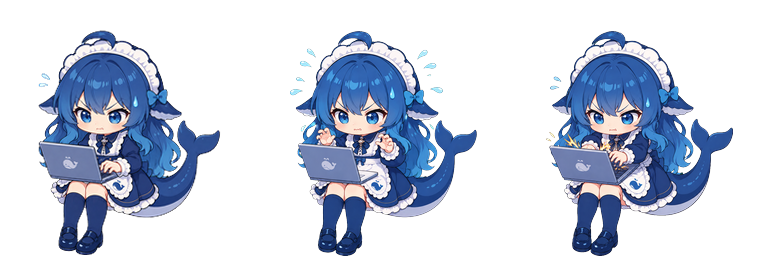
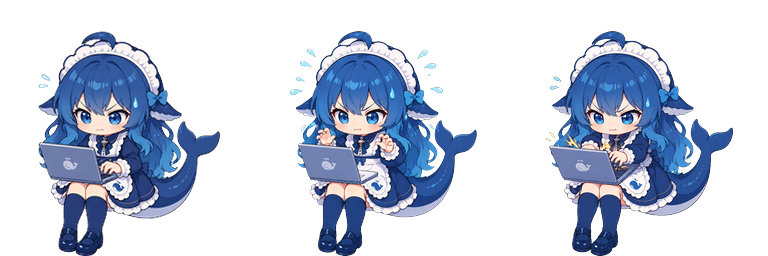
fix(art): audit fixes — afk frame scale pop, stray key-green pixels, 1px baselines (2.1.1)

Changed region(s): [[0.0312, 0.0938, 0.2812, 0.875], [0.0625, 0.875, 0.1562, 1.0]]

diff --git a/CHANGELOG.md b/CHANGELOG.md
@@ -1,3 +1,20 @@
+## 2.1.1 — 2026-10-27
+
+美术资源全量审计后的收尾修复（13 张动作表 + 19 张姿势表逐帧检查几何、基线、绿边、帧独立性）。
+
+### 修复
+
+- **`poses/afk.png` 第 0 帧尺寸跳变**：该帧角色高 240px，而第 1、2 帧是 225px，CSS 帧循环每轮第一帧都会把角色放大 6.7%。已按脚底锚点重采样到 225px。
+- **残留键控绿像素**：`poses/abstract.png` f0 3 个、`poses/celebrate.png` f0 1 个、`poses/sweep.png` f0 1 个，已清除。
+- **1px 基线偏差**：`poses/workPat.png`、`poses/workRam.png` 的 f0 底边在 y=255，已下移 1px 对齐 y=256。
+
+### 未改动（有意保留）
+
+- `eat` / `joy` / `play` / `wake` 的第 1–2 帧脚底比 y=256 高 1–2px：这是**上游原版美术**的跳跃/弹动感，不是缺陷；在 110px 显示尺寸下相当于 0.4–0.9 CSS px，不可见。重采样会损失原图锐度，故保持原样。
+
+### 审计工具
+
+- 新增仓库外的 `_tmp/whale-gen/audit_assets.py`：逐帧输出 bbox / 高度 / 底边 / 绿边像素数，并交叉校验 `src/pet.js` 的 `ANIM` 与 `src/pose-map.js` 引用的图片是否都存在（本次结果：13 个动作表、19 个姿势表全部存在，0 缺失）。
 ## 2.1.0 — 2026-10-27
 
 **全部动作态与全部姿势都用真正独立绘制的帧**（不再有「同一张图加缩放/位移/旋转」的伪帧）。
